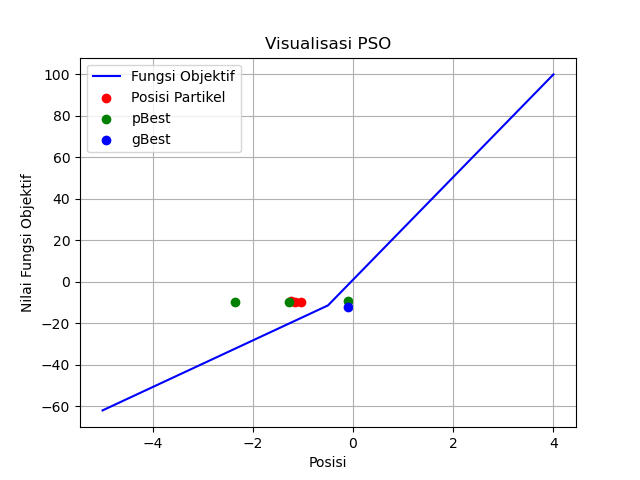
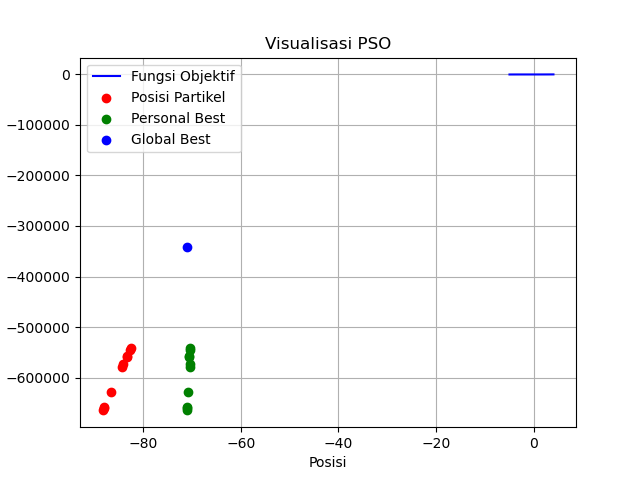
fix plot

diff --git a/PSO/PSO.py b/PSO/PSO.py
@@ -1,5 +1,7 @@
 import numpy as np
 import matplotlib.pyplot as plt
+from matplotlib.animation import FuncAnimation
+from mpl_toolkits.mplot3d import Axes3D
 
 # from typing import List
 
@@ -28,6 +30,9 @@ class fx_PSO:
         self.oldParticle = np.copy(particle)
         self.pBest = []
         self.gBest = None
+
+        # Flag untuk menandai iterasi pertama
+        self.first_iteration = True
 
     # Method to decide function value of particle position (x)
     def determineFunction(self) -> list[float]:
@@ -112,50 +117,91 @@ class fx_PSO:
         print(f"Minimum value of f(x) = {fitness_function(self.gBest)}")
 
     # Method to display visualization of PSO
-    def plot(self):
-        # Generate data for visualization
-        x_values = np.linspace(-5, 4, 3)
-        y_values = fitness_function(x_values)
-
-        # Plot the function
-        plt.plot(x_values, y_values, label="Fungsi Objektif", color="blue")
-
+    def plot_particles(self, ax):
         # Plot particle positions
-        plt.scatter(
+        ax.scatter(
             self.particle,
-            fitness_function(self.particle),
-            color="red",
-            label="Posisi Partikel",
+            [fitness_function(xi) for xi in self.particle],
+            c="b",
+            marker="o",
+            label="Particles",
+        )
+        ax.scatter(
+            self.gBest,
+            fitness_function(self.gBest),
+            c="r",
+            marker="o",
+            s=100,
+            label="Global Best",
         )
 
-        # Plot pBest positions
-        plt.scatter(self.pBest, self.determineFunction(), color="green", label="pBest")
+    # Fungsi untuk animasi iterasi
+    def animate(self, i, ax):
+        if self.first_iteration:
+            self.first_iteration = False
+        else:
+            # Print informasi untuk iterasi selanjutnya
+            self.findPbest()
+            self.findGbest()
+            self.updateV()
 
-        # Plot gBest position
-        plt.scatter(
-            self.gBest, fitness_function(self.gBest), color="blue", label="gBest"
+            print(f"Iterasi {i+1}")
+            print("Initialization")
+            # Update pBest, gBest, kecepatan, dan posisi untuk iterasi selanjutnya
+            print(f"Particle (x) = {[round(val, 3) for val in self.particle]}")
+            print(
+                f"Determine fx value = {[round(fitness_function(val), 3) for val in self.particle]}"
+            )
+            print(f"x = {[round(val, 3) for val in self.particle]}")
+            print(f"Personal Best = {[round(val, 3) for val in self.pBest]}")
+            print(f"Velocity = {[round(val, 3) for val in self.velocity]}")
+            # print(f"gBest = {round(self.gBest, 3)}")
+            self.updateX()
+            print(
+                f"f(x) = {[round(fitness_function(val), 3) for val in self.particle]}"
+            )
+            print()
+
+        # Menghapus plot sebelumnya dan memplot partikel serta gunung untuk iterasi saat ini
+        ax.clear()
+        self.plot_particles(ax)
+        self.plot_surface(ax)
+        ax.set_title(f"Iteration {i+1}")
+        # ax.set_xlim(-5, 5)
+        # ax.set_ylim(-5, 5)
+        ax.set_xlabel("X")
+        ax.set_ylabel("f(X)")
+        ax.legend()
+
+    # Fungsi untuk plotting permukaan fungsi objektif sebagai gunung
+    def plot_surface(self, ax):
+        x = np.linspace(-100, 100, 1000)
+        y = fitness_function(x)
+        ax.plot(x, y, color="purple", alpha=0.5, label="Objective Function")
+
+    # Fungsi untuk iterasi dengan animasi
+    def iterate_with_animation(self, n):
+        fig = plt.figure()
+        ax = fig.add_subplot(111, projection="3d")
+        animation = FuncAnimation(
+            fig, self.animate, frames=n, fargs=(ax,), interval=500, repeat=False
         )
-
-        # Configuration
-        plt.title("Visualisasi PSO")
-        plt.xlabel("Posisi")
-        plt.ylabel("Nilai Fungsi Objektif")
-        plt.legend()
-        plt.grid(True)
-        plt.savefig("fx-PSO.png")
         plt.show()
 
 
 # Main program
 if __name__ == "__main__":
     x = np.array([-5, 4])  # Range of particle (xMin, xMax)
-    dimension = 3  # Dimension of particle
-    particle = np.array([1.0, 2.0, 3.0])  # Generate random particle
+    dimension = 10  # Dimension of particle
+    # particle = np.array([1.0, 2.0, 3.0])  # Generate random particle
+    particle = np.random.uniform(x[0], x[1], dimension)
     velocity = np.zeros(dimension)  # Initialize velocity
     c = np.array([0.5, 1.0])  # Acceleration coefficient
     r = np.array([0.5, 0.5])  # Random number (Between 0 and 1)
     w = 1.0  # Inertia weight
     pso = fx_PSO(particle, velocity, c, r, w)  # Create object
-    pso.iterate(3)  # Iterate PSO
+    iterate = 10
+    pso.iterate(iterate)  # Iterate PSO
+    pso.iterate_with_animation(iterate)
     # Visualisasi
-    pso.plot()  # Display visualization
+    # pso.plot()  # Display visualization

diff --git a/PSO/fx-PSO.py b/PSO/fx-PSO.py
@@ -81,37 +81,48 @@ class fx_PSO:
             self.findPbest()
             self.updateV()
 
-            print(f"Iteration {j + 1}")
             self.print_table(j + 1)
-            self.updateX()
             print()
 
         print(f"Minimum value of f(x) = {fitness_function(self.gBest)}")
 
     # Method to create table
     def print_table(self, n):
+        rounded_particle = np.round(self.particle, 4)
+        rounded_determine_fx = np.round(self.determineFunction(), 4)
+        rounded_fx_pBest = np.round(self.evaluatePbestFitness(), 4)
+        if self.gBest is not None:
+            rounded_fx_gBest = np.round(fitness_function(self.gBest), 4)
+            fx_gBest_str = str(rounded_fx_gBest)
+        else:
+            fx_gBest_str = None
+        rounded_gbest = np.round(self.gBest, 4) if self.gBest is not None else None
+        rounded_pBest = np.round(self.pBest, 4)
+        rounded_velocity = np.round(self.velocity, 4)
+        self.updateX()
+        rounded_updateX = np.round(self.particle, 4)
         data = [
             [f"Iteration {n}"],
-            ["Particle (x)", ", ".join(map(str, self.particle))],
-            ["Determine fx", ", ".join(map(str, self.determineFunction()))],
-            ["fx(pBest)", ", ".join(map(str, self.evaluatePbestFitness()))],
+            ["Particle (x)", ", ".join(map(str, rounded_particle))],
+            ["Determine fx", ", ".join(map(str, rounded_determine_fx))],
+            ["fx(pBest)", ", ".join(map(str, rounded_fx_pBest))],
+            ["fx(gBest)", fx_gBest_str],
             [
-                "fx(gBest)",
-                fitness_function(self.gBest) if self.gBest is not None else None,
+                "Global Best",
+                str(rounded_gbest) if rounded_gbest is not None else None,
             ],
-            ["Global Best", self.gBest],
-            ["Personal Best", ", ".join(map(str, self.pBest))],
-            ["Velocity", ", ".join(map(str, self.velocity))],
-            ["Update x", ", ".join(map(str, self.particle))],
+            ["Personal Best", ", ".join(map(str, rounded_pBest))],
+            ["Velocity", ", ".join(map(str, rounded_velocity))],
+            ["Update x", ", ".join(map(str, rounded_updateX))],
         ]
-
         headers = ["Variabel", "Value"]
-        print(tabulate(data, headers, tablefmt="grid"))
+        print(tabulate(data, headers, tablefmt="grid", colalign=("left", "right")))
 
-    # Method to display visualization of PSO
+        # Add this method to the fx_PSO class
+
     def plot(self):
         # Generate data for visualization
-        x_values = np.linspace(-5, 4, 3)
+        x_values = np.linspace(x_range[0], x_range[1], dimension)
         y_values = fitness_function(x_values)
 
         # Plot the function
@@ -126,11 +137,13 @@ class fx_PSO:
         )
 
         # Plot pBest positions
-        plt.scatter(self.pBest, self.determineFunction(), color="green", label="pBest")
+        plt.scatter(
+            self.pBest, self.determineFunction(), color="green", label="Personal Best"
+        )
 
         # Plot gBest position
         plt.scatter(
-            self.gBest, fitness_function(self.gBest), color="blue", label="gBest"
+            self.gBest, fitness_function(self.gBest), color="blue", label="Global Best"
         )
 
         # Configuration
@@ -145,16 +158,18 @@ class fx_PSO:
 
 # Main program
 if __name__ == "__main__":
-    x = np.array([-5, 4])  # Range of particle (xMin, xMax)
-    dimension = 3  # Dimension of particle
-    particle = np.random.uniform(x[0], x[1], dimension)  # Generate random particle
+    x_range = np.array([-5, 4])  # Range of particle (xMin, xMax)
+    dimension = 10  # Dimension of particle
+    particle = np.random.uniform(
+        x_range[0], x_range[1], dimension
+    )  # Generate random particle
     velocity = np.zeros(dimension)  # Initialize velocity
     c = np.array([0.5, 1.0])  # Acceleration coefficient
     r = np.array(
         [np.random.rand(), np.random.rand()]
     )  # Random number (Between 0 and 1)
     w = 1.0  # Inertia weight
+    iterate = 10  # Iterate
     pso = fx_PSO(particle, velocity, c, r, w)  # Create object
-    pso.iterate(3)  # Iterate PSO
-    # Visualisasi
-    pso.plot()  # Display visualization
+    pso.iterate(iterate)  # Iterate PSO
+    pso.plot()  # Display visualization of PSO

diff --git a/PSO/fx-PSO-2D.py b/PSO/fx-PSO-2D.py
@@ -157,11 +157,11 @@ class fx_PSO_2D:
         ]
 
         headers = ["Swarm Optimization", "Value"]
-        print(tabulate(data, headers, tablefmt="grid"))
+        print(tabulate(data, headers, tablefmt="grid", colalign=("left", "right")))
 
     def plot(self):
         plt.figure()
-        x_values = np.linspace(-5.12, 5.12, 3)
+        x_values = np.linspace(xy_range[0], xy_range[1], dimension)
         y_values = fitness_function(x_values, 0)
 
         plt.plot(x_values, y_values, label="Fungsi Objektif", color="blue")
@@ -179,10 +179,10 @@ class fx_PSO_2D:
             pBest_positions[:, 0],
             pBest_positions[:, 1],
             color="green",
-            label="pBest",
+            label="Personal Best",
         )
 
-        plt.scatter(self.gBest_x, self.gBest_y, color="blue", label="gBest")
+        plt.scatter(self.gBest_x, self.gBest_y, color="blue", label="Global Best")
 
         plt.title("Visualisasi PSO")
         plt.xlabel("Posisi X")
@@ -196,7 +196,7 @@ class fx_PSO_2D:
 # Main program
 if __name__ == "__main__":
     xy_range = np.array([-5.12, 5.12])  # Range of particle (xMin, xMax)
-    dimension = 3  # Dimension of particle
+    dimension = 10  # Dimension of particle
     particle_x = np.random.uniform(
         xy_range[0], xy_range[1], dimension
     )  # Generate particle x random particle
@@ -208,9 +208,9 @@ if __name__ == "__main__":
     c = np.array([1.0, 0.5])  # Acceleration coefficient
     r = np.array([np.random.rand(), np.random.rand()])  # Random number
     w = 1.0  # Inertia weight
-
+    iterate = 10  # Iterate
     pso = fx_PSO_2D(
         particle_x, particle_y, velocity_x, velocity_y, c, r, w
     )  # Create object
-    pso.iterate(3)  # Iterate PSO
+    pso.iterate(iterate)  # Iterate PSO
     pso.plot()  # Display visualization of PSO
